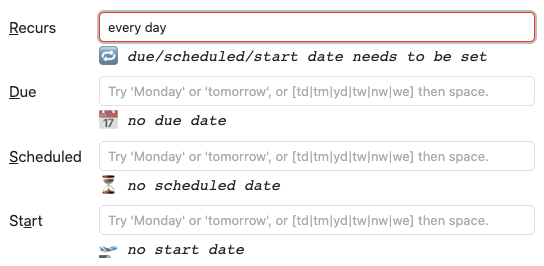
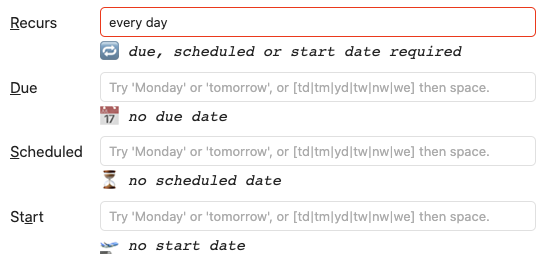
docs,fix: Refine the wording of the warning in Edit Task modal  (#2360)
* fix: Refine the wording of the warning in Edit Task modal

For when there is a recurrence rule but no Happens date

* docs: Update image of the warning in Edit Task modal

For when there is a recurrence rule but no Happens date

* docs: 'Create or edit Task' notes that Recurrence needs a date

diff --git a/src/ui/EditTask.svelte b/src/ui/EditTask.svelte
@@ -218,7 +218,7 @@
                 parsedRecurrence = '<i>invalid recurrence rule</i>';
                 isRecurrenceValid = false;
             } else if (!editableTask.startDate && !editableTask.scheduledDate && !editableTask.dueDate) {
-                parsedRecurrence = '<i>due/scheduled/start date needs to be set</i>';
+                parsedRecurrence = '<i>due, scheduled or start date required</i>';
                 isRecurrenceValid = false;
             } else {
                 parsedRecurrence = recurrenceFromText;

diff --git a/docs/Getting Started/Create or edit Task.md b/docs/Getting Started/Create or edit Task.md
@@ -58,6 +58,10 @@ See [[Priority|priority]].
 
 Here you can make the task recur, so that when it is marked as done, a new task is created, with newer dates.
 
+> [!Tip]
+> A task with a recurrence rule is required to also have at least one of Due, Scheduled or Starts dates.<br>
+> See [[Recurring Tasks#Recurring tasks must have at least one date|Recurring tasks must have at least one date]].
+
 See [[Recurring Tasks|recurring tasks (repetition)]].
 
 ### Dates
